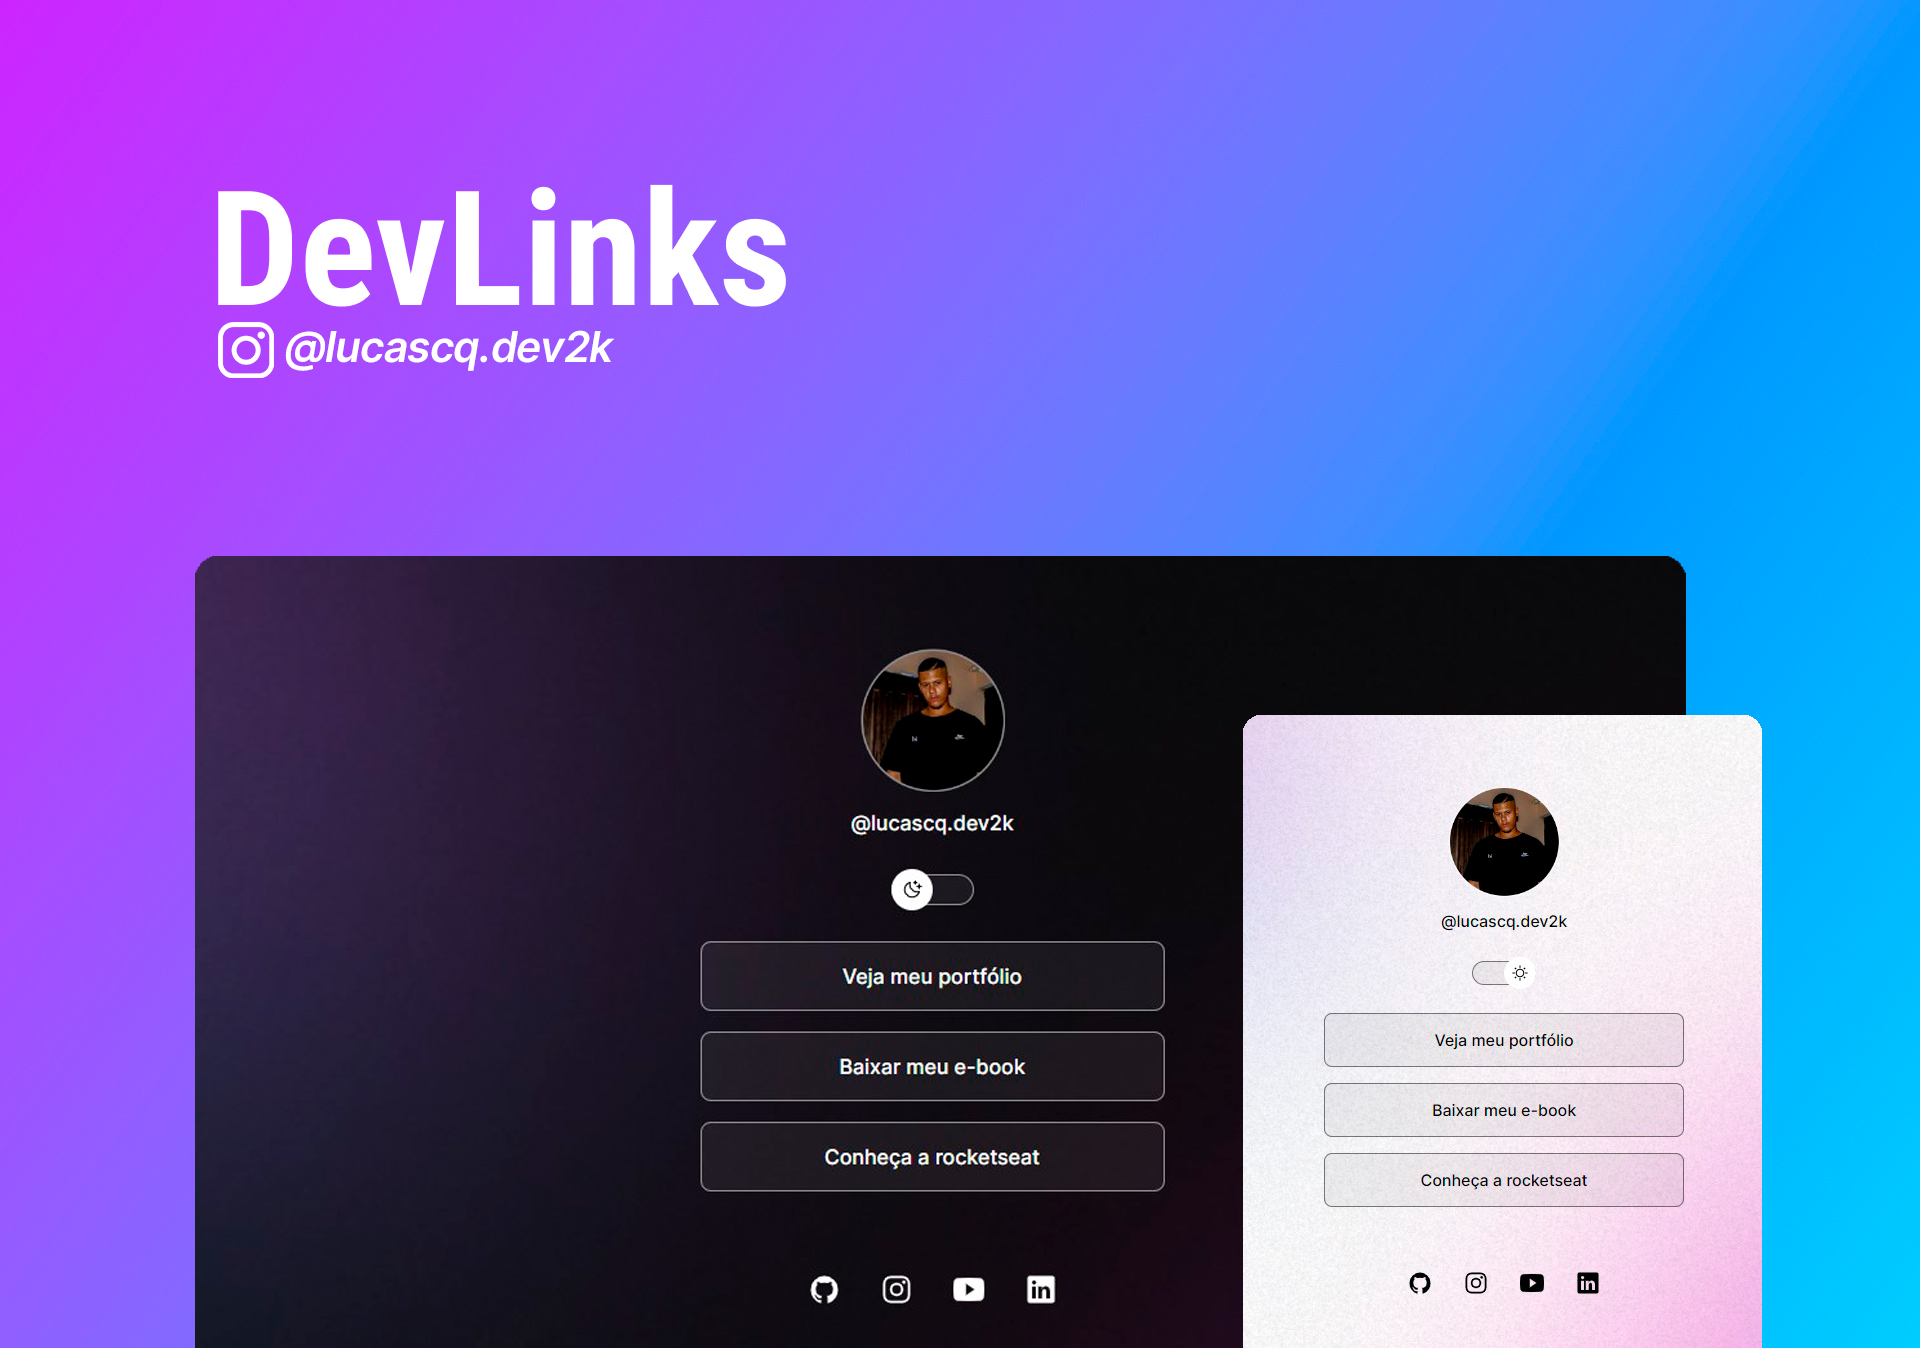
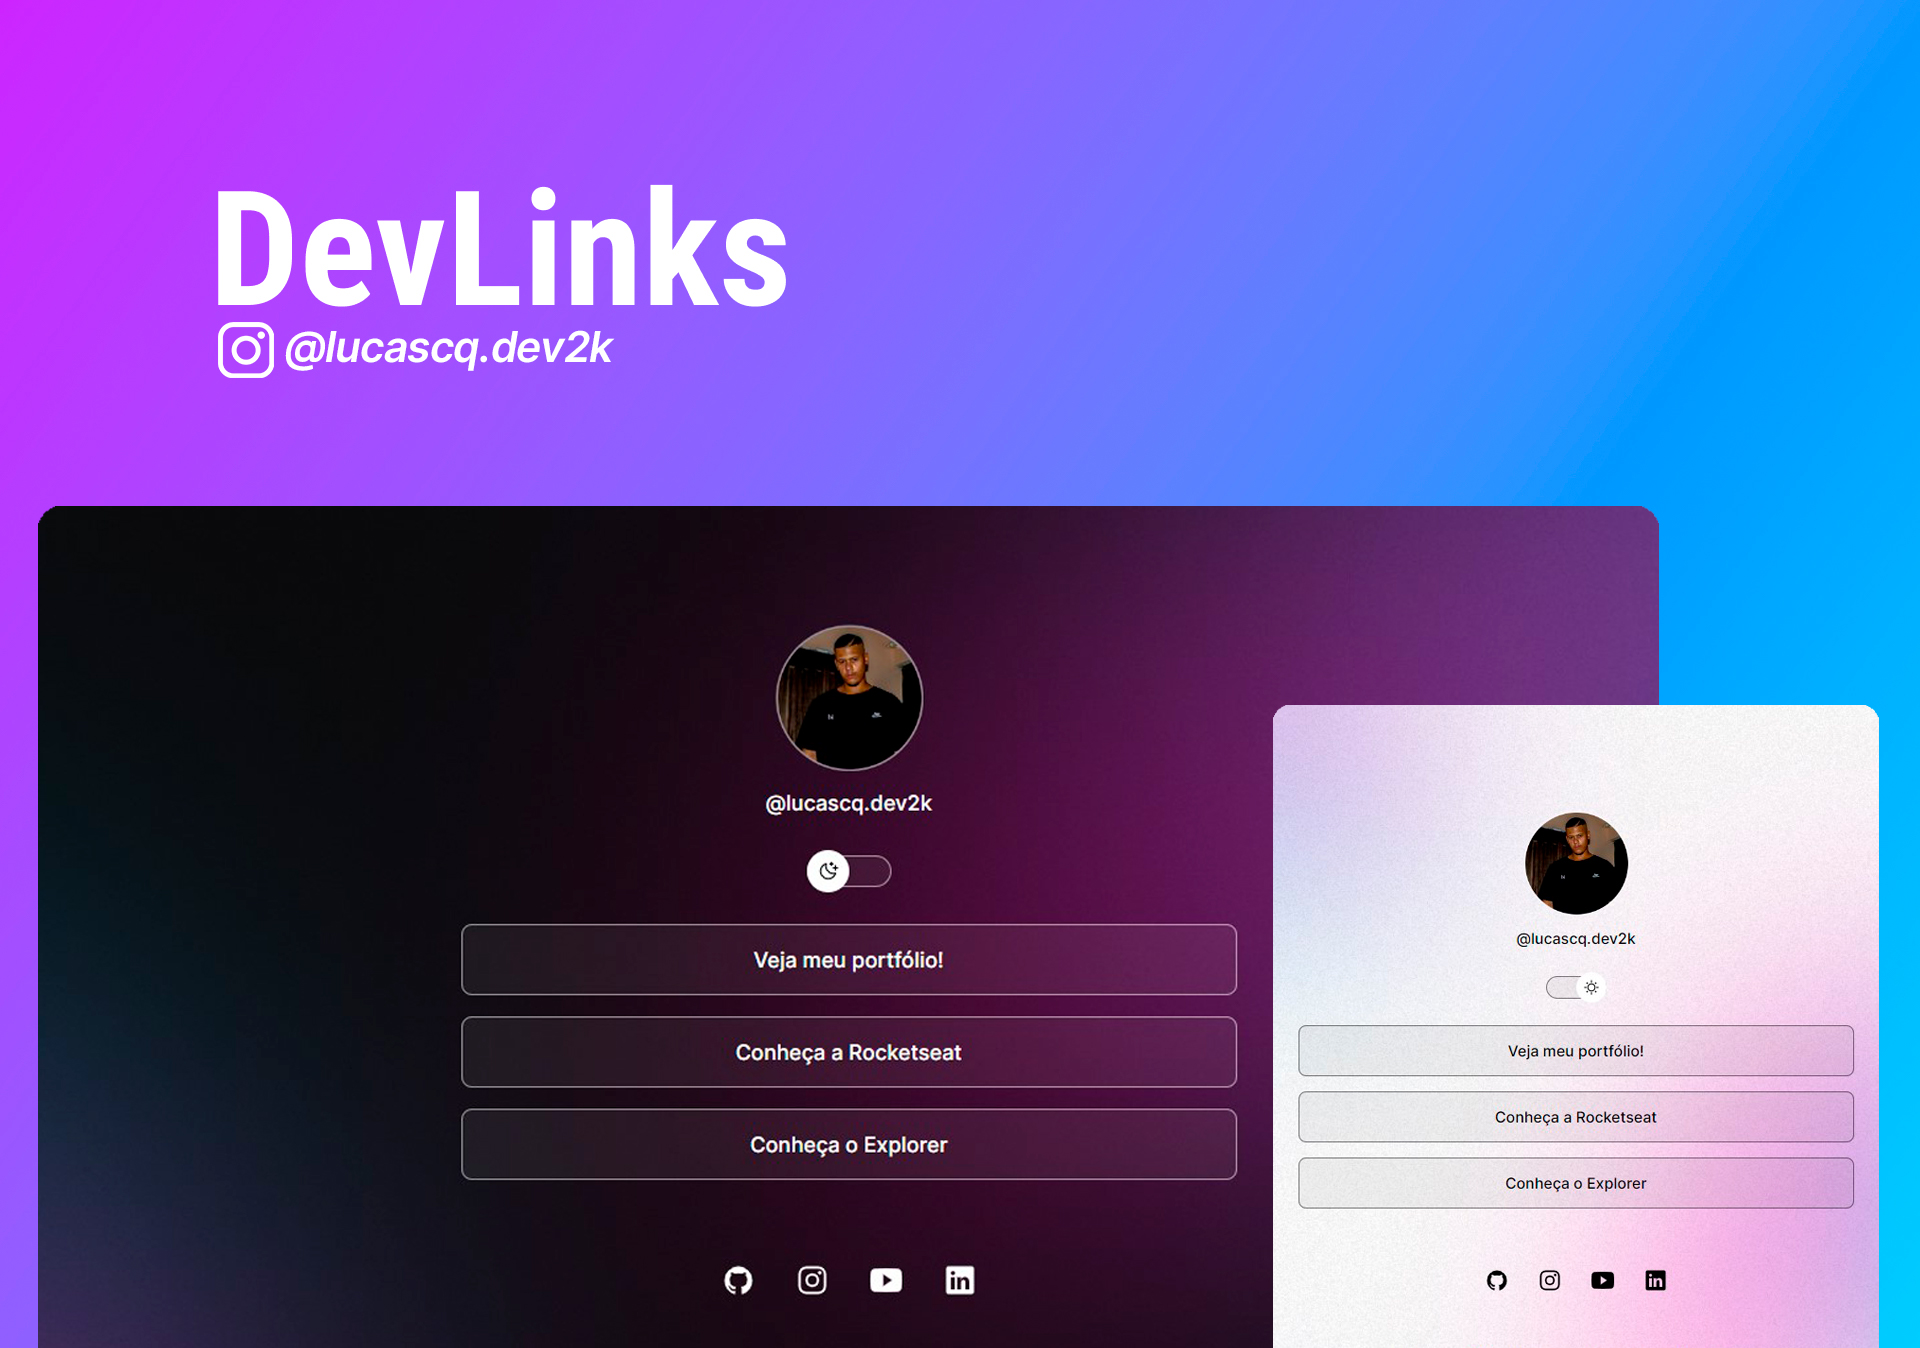
final updates

diff --git a/index.html b/index.html
@@ -28,15 +28,21 @@
 
       <ul>
         <li>
-          <a href="https://github.com/maykbrito">Veja meu portfólio</a>
+          <a href="https://github.com/FXharry" target="_blank"
+            >Veja meu portfólio!</a
+          >
         </li>
 
         <li>
-          <a href="#" target="_blank">Baixar meu e-book</a>
+          <a href="https://www.rocketseat.com.br/" target="_blank"
+            >Conheça a Rocketseat</a
+          >
         </li>
 
         <li>
-          <a href="https://rocketseat.com.br/explorer">Conheça a rocketseat</a>
+          <a href="https://rocketseat.com.br/explorer" target="_blank"
+            >Conheça o Explorer</a
+          >
         </li>
       </ul>
 

diff --git a/README.md b/README.md
@@ -35,6 +35,8 @@ Esse projeto foi desenvolvido com as seguintes tecnologias:
 O Devlinks agrega todos os links necessários para ser um
 cartão de visita completamente online.
 
+- [Acesse o projeto finalizado, online](https://fxharry.github.io/mydevlinks/) 
+
 ## 🔖 Layout
 
 Você pode visualizar o layout do projeto através [DESSE LINK](https://www.figma.com/file/J1Z33MISC22YZB8wfxiIns/NLW-Copa-Explorer/duplicate). É necessário ter conta no [Figma](https://figma.com) para acessá-lo.
